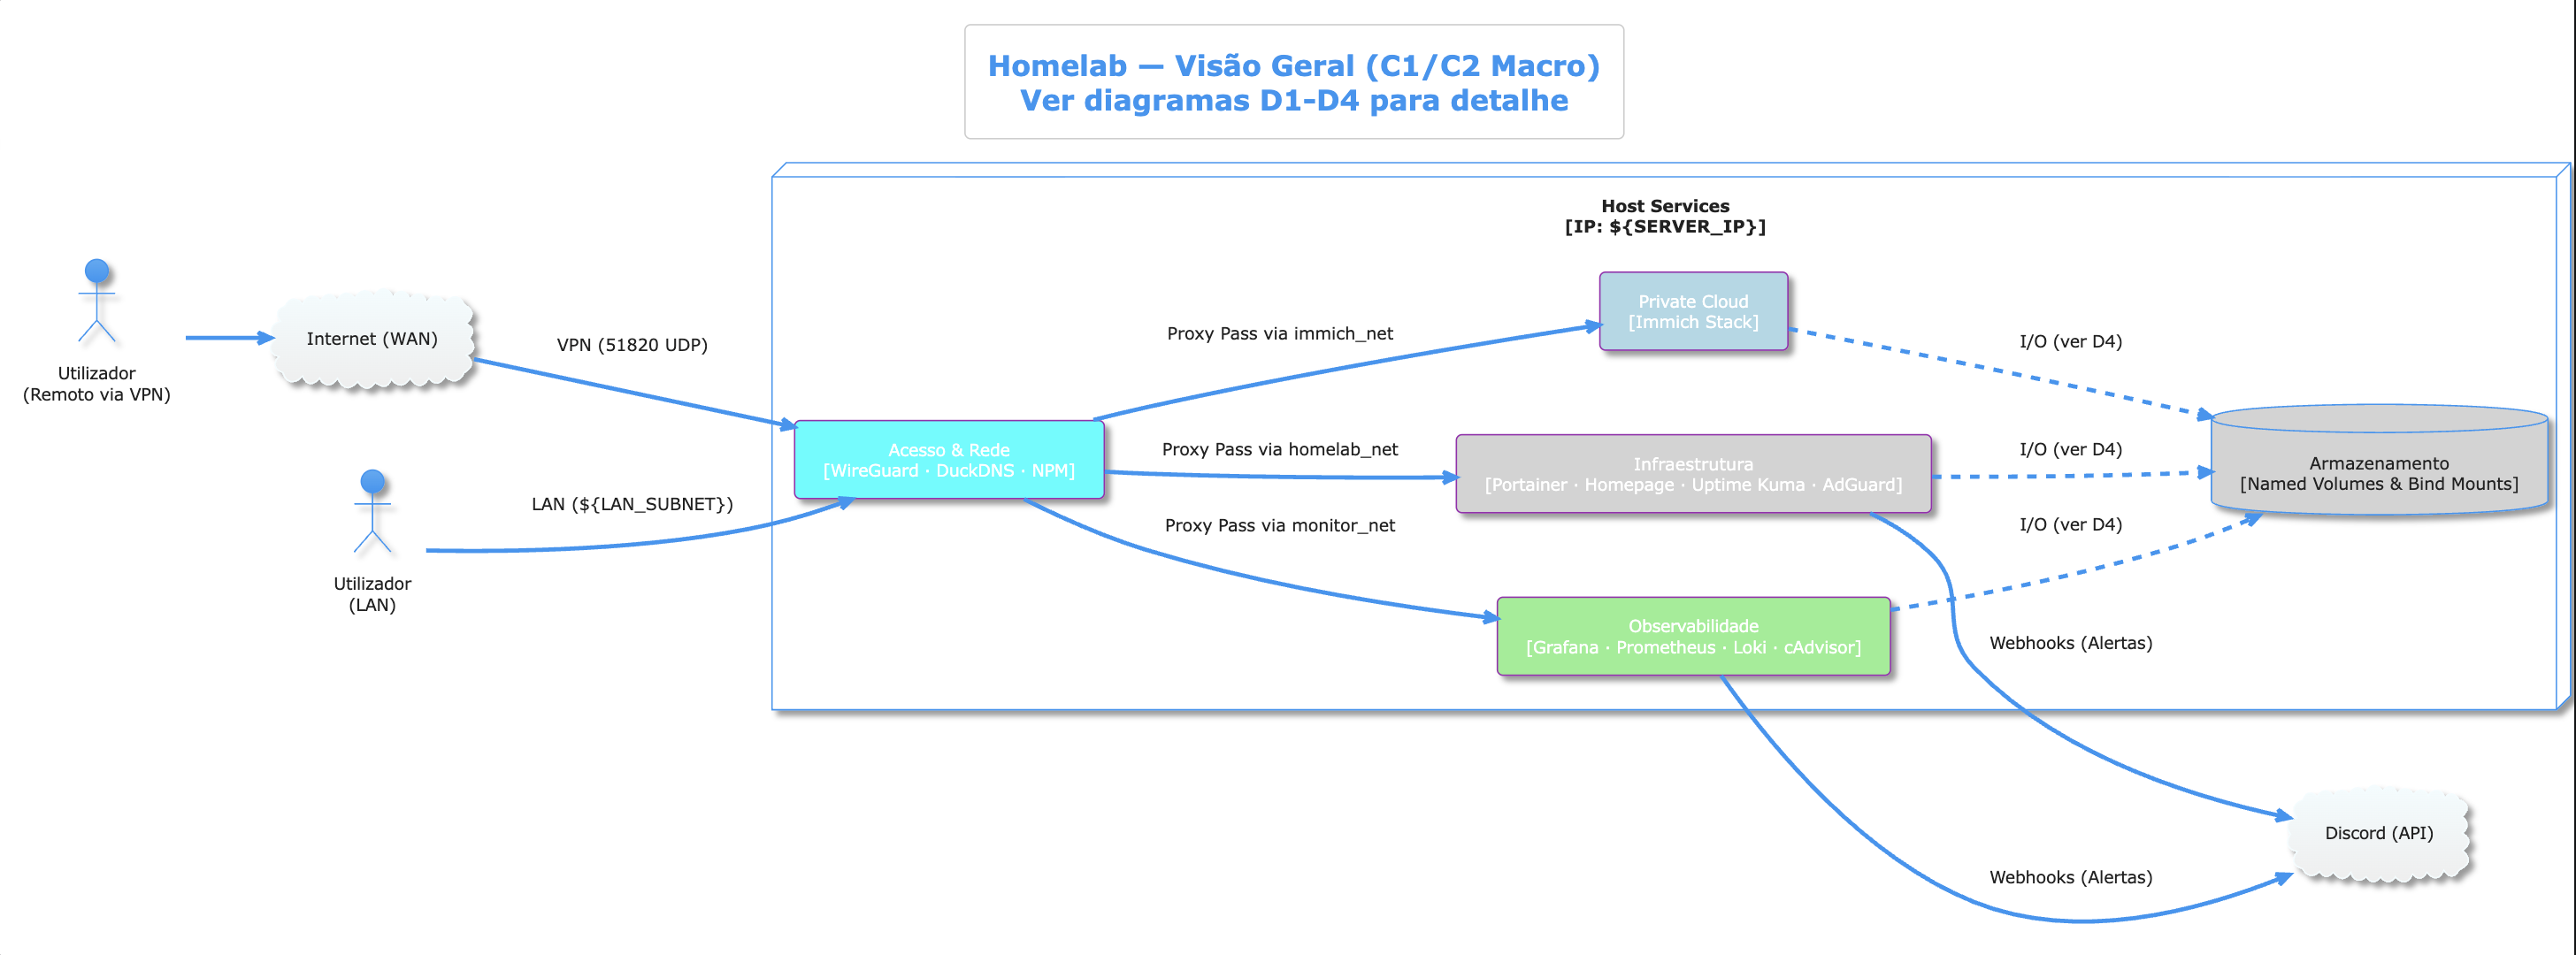
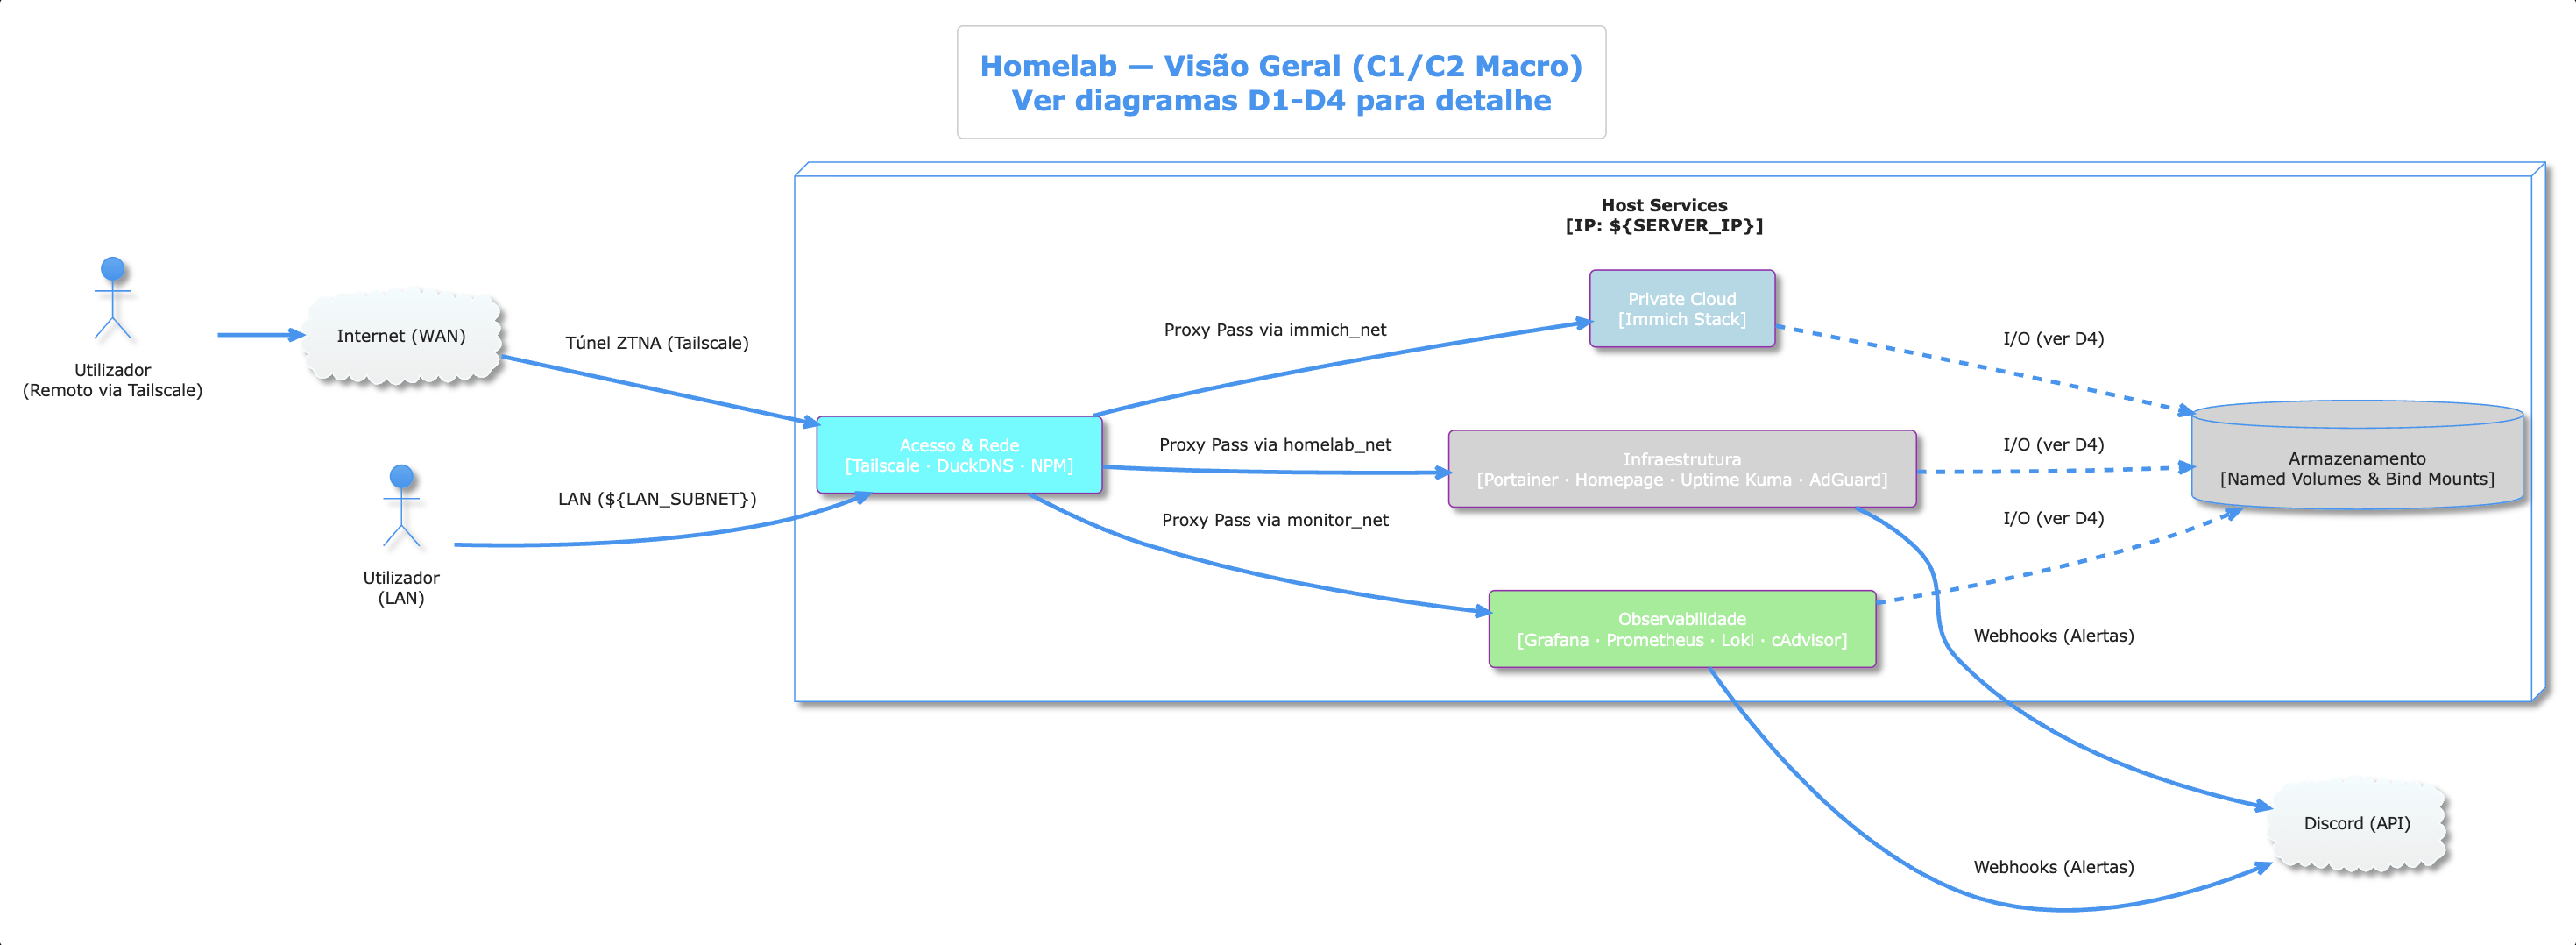
Update architecture diagrams and README to reflect migration from WireGuard to Tailscale for enhanced security, access management and problem solving

diff --git a/Documents/troubleshooting/01-vpn-bloqueada-migracao-tailscale.md b/Documents/troubleshooting/01-vpn-bloqueada-migracao-tailscale.md
@@ -1,0 +1,29 @@
+# [VPN] Bloqueio de Portas em Redes Públicas (Migração para Tailscale)
+
+## 🚨 O Problema (Sintomas)
+Durante o acesso aos serviços do Homelab a partir de uma rede Wi-Fi pública (biblioteca), não foi possível estabelecer ligação. O "handshake" do cliente VPN para o host local não se concluía e o túnel não transmitia tráfego. Todos os serviços confinados (Nginx Proxy Manager, Portainer e serviços-core) ficaram inacessíveis remotamente.
+
+## 🔍 Análise (Root Cause Analysis - RCA)
+1. **Comportamento Partilhado:** O túnel estabelecia comunicação perfeita em ligações móveis (4G/5G). A falha era exclusiva ao estar conectado naquela rede pública Wi-Fi em específico.
+2. **Diagnóstico Técnico:** O **WireGuard** standalone comunica via troca de datagramas via protocolo UDP através de portas predefinidas (no caso, 51820 UDP). Por motivos de controlo (bloqueio de descargas peer-to-peer / botnets), a firewall restritiva da biblioteca negava e desfazia ligações intermédias UDP nas saídas (`EGRESS`). 
+3. Como os clientes clássicos de WireGuard não executam facilmente *fallback* para outras portas padrão abertas ou para TCP nativo, o túnel simplesmente tombava perante o bloqueio de rede ("UDP Blocking").
+
+## 🛠️ A Solução (Arquitetura ZTNA & DERP Relays)
+A solução passou por descartar o modelo clássico do WireGuard e implementar **Tailscale** (Zero-Trust Network Access). 
+* O Tailscale gere lógicas avançadas de roteamento (*Hole Punching / NAT Traversal*). Em redes restritivas que bloqueiam tráfego UDP (como a biblioteca), o cliente executa *fallback* automático, encapsulando o tráfego via **DERP** (*Designated Encrypted Relay for Packets*) sobre TCP na porta 443 (HTTPS), perfurando a barreira de rede de modo transparente.
+* O servidor físico foi configurado como **Subnet Router** (`--advertise-routes=${LAN_SUBNET}`), garantindo acesso direto aos IPs locais da infraestrutura através do túnel cifrado.
+
+## ⚙️ Integração e Resolução de Atritos (O Verdadeiro Desafio)
+A simples troca de VPN introduziu problemas de camada aplicacional que exigiram engenharia de tráfego:
+
+1. **Split DNS para Manter SSL Válido:** 
+   O acesso remoto via IP quebrava o Nginx Proxy Manager (NPM) e os certificados SSL. Para resolver, configurei **Split DNS** no *control plane* do Tailscale. Todo o tráfego para `*.${DDNS_DOMAIN}` foi forçado a resolver no meu servidor AdGuard local. Como o AdGuard já estava configurado para apontar estes domínios para o IP interno do servidor (`${SERVER_IP}`), o Tailscale interceta o pedido, traduz para o IP local e injeta-o no túnel, permitindo aceder aos serviços via domínio original de qualquer parte do mundo.
+
+2. **Source NAT (SNAT) do Docker vs. Access Lists (NPM):**
+   Mesmo com o tráfego a chegar, o NPM bloqueava a ligação com erro `HTTP 403 Forbidden`. O diagnóstico profundo revelou o problema: o motor de rede do Docker (bridge) executa **SNAT** no tráfego que entra via `tailscale0`. O IP de origem do cliente (`${TAILSCALE_IP}`) era mascarado pelo IP do *gateway* interno do Docker.
+   * **Resolução Cirúrgica:** Em vez de comprometer o isolamento dos contentores ou expor portas locais, executei uma auditoria aos logs nativos do proxy (`docker exec npm sh -c 'grep 403 /data/logs/*'`) para identificar exatamente qual o IP do gateway que estava a bater na firewall aplicacional. 
+   * Identificado o IP temporário do motor Docker (`${DOCKER_GATEWAY_IP}`), adicionei uma exceção estrita (`${DOCKER_GATEWAY_IP}/32`) na Access List do NPM. A segurança lateral foi mantida e o tráfego foi libertado.
+
+## 🛡️ Prevenção e Benefícios Resultantes
+1. **Resiliência Máxima e Fim de Interrupção:** Conectividade de rede integral, livre da infraestrutura alheia estar fechada ou ser muito restrita.
+2. **Postura Extra de Segurança e Isolamento:** Redução direta da Superfície de Ataque. A implementação do tailscale ditou que eu já **não careço ou exijo port forwarding configurado no meu Router Principal**. Pude aceder ao Gateway de Casa e eliminar a rota "wan -> 51820 UDP" do NAT de receção do edifício, garantindo na prática agora um sistema estanque com **0 Incoming Active Ports**.

diff --git a/Documents/troubleshooting/README.md b/Documents/troubleshooting/README.md
@@ -1,0 +1,9 @@
+# 🛠️ Post-Mortems e Resolução de Problemas (Troubleshooting)
+
+Esta secção contém relatórios detalhados sobre anomalias e problemas estruturais mitigados ao longo do tempo no Homelab. 
+
+O objetivo principal destes documentos é não apenas arquivar a memória técnica da infraestrutura, mas demonstrar a aplicação de metodologias de **Root Cause Analysis (RCA)** e resolução controlada de incidentes aplicacionais e de redes.
+
+### Documentos:
+
+- [🔗 01 - Bloqueio de Portas VPN e Migração Arquitetural para Tailscale](./01-vpn-bloqueada-migracao-tailscale.md)

diff --git a/README.md b/README.md
@@ -7,7 +7,7 @@ This repository contains the infrastructure configurations, Docker Compose files
 ## ✨ Key Highlights
 
 * **Architecture Documentation (C4 Model):** Entire infrastructure is mapped out using the C4 model (PlantUML), detailing network boundaries, proxy routing, and data storage.
-* **Security-First approach:** No services are exposed directly to the public internet. Access is strictly managed via a **WireGuard VPN** tunnel, injecting remote clients into the internal LAN. Local DNS and ad-blocking are handled by **AdGuard Home**.
+* **Security-First approach:** Zero incoming active ports. Access is strictly managed via a **Tailscale (ZTNA)** mesh network, injecting remote clients into the internal LAN securely. Local DNS and ad-blocking are handled by **AdGuard Home**.
 * **Advanced Observability Stack:** Full telemetry pipeline utilizing **Prometheus** (time-series metrics), **Loki & Promtail** (log aggregation), **cAdvisor** (container metrics), and **Grafana** for visualization and Discord webhook alerts.
 * **Private Photo Cloud:** Complete **Immich** stack deployment utilizing internal Machine Learning models for facial/object recognition and `pgvecto-rs` PostgreSQL databases.
 
@@ -15,7 +15,7 @@ This repository contains the infrastructure configurations, Docker Compose files
 
 | Category | Tools |
 | :--- | :--- |
-| **Reverse Proxy & Network** | Nginx Proxy Manager, WireGuard, DuckDNS |
+| **Reverse Proxy & Network** | Nginx Proxy Manager, Tailscale (ZTNA), DuckDNS |
 | **Observability** | Grafana, Prometheus, Loki, Promtail, Node Exporter, cAdvisor |
 | **DNS & Security** | AdGuard Home |
 | **Self-Hosted Services**| Immich (Photo/Video Management) |